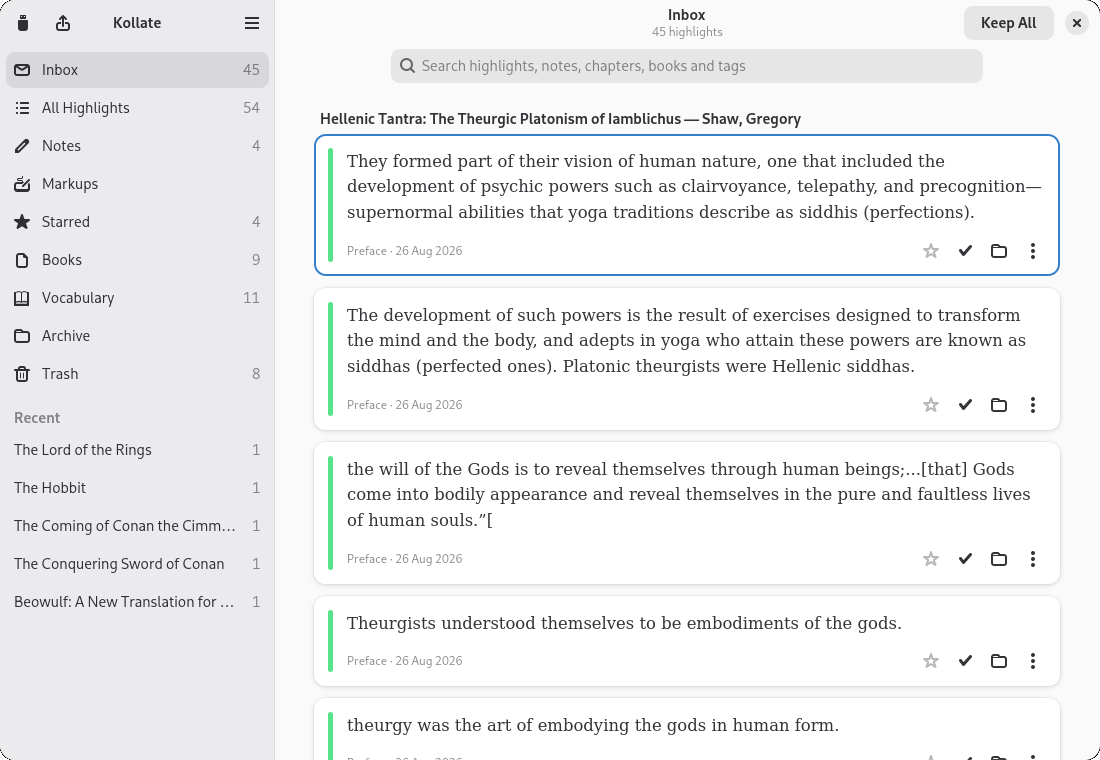
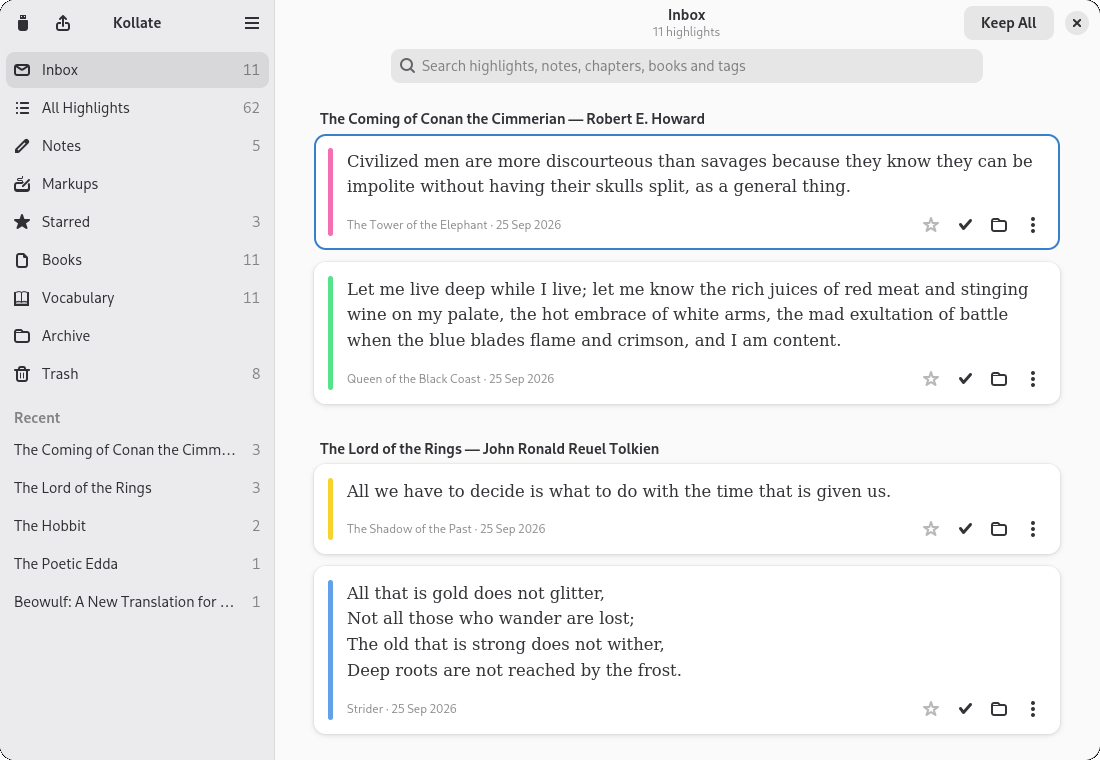
Release 0.1.2; new Inbox screenshot; save LinkedIn post draft

diff --git a/docs/linkedin-post.md b/docs/linkedin-post.md
@@ -1,0 +1,25 @@
+# LinkedIn post
+
+**I built an app with Claude Code in an afternoon. The guardrails took more thought than the code.**
+
+Outside of work, I read on a Kobo e-reader. Looking under the hood, I noticed it stores every highlight, note and looked-up word in a local SQLite database, data that's mine but hard to get at.
+
+So I built Kollate, a Linux app that imports that data, curates it, and exports to Obsidian and Anki. With Claude Code, it went from written spec to a published open-source release in about three hours.
+
+The speed is the headline, but it isn't the lesson. What mattered were the same calls I'd want on any client engagement:
+
+🏗 **No shortcuts on architecture.** The usual way to build a quick side project is an Electron app or a thrown-together Python GUI. I didn't have to settle: Kollate is written in Rust with GTK 4, a native, compiled desktop app that's fast, lean and dependable. AI didn't lower the bar; it made the higher bar affordable.
+
+🔒 **Least privilege.** The app never writes to the device, and refuses to even if you ask it to. The packaged version can't reach the network and can only *read* the e-reader.
+
+⚖ **Respecting boundaries.** Kobo's built-in dictionaries are encrypted. Rather than work around that, we shipped an openly licensed one, credited properly.
+
+🧪 **Verify, don't trust.** I tested against my real device, and that caught a subtle sorting bug no test data would have exposed. The Anki export was confirmed with Anki's own importer.
+
+🗂 **Data hygiene.** Before open-sourcing, I replaced my personal reading data in the test fixtures with a scrubbed minimum and purged it from the project history.
+
+AI changes how fast we can build, and how high we can aim. It doesn't change who's accountable for what gets built. For those of us bringing AI into public-sector and enterprise work, that's the part to get right.
+
+github.com/andrew-lawlor/kollate
+
+#AI #GenAI #PublicSector #GovTech #ResponsibleAI #Rust #OpenSource
